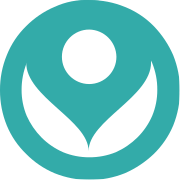
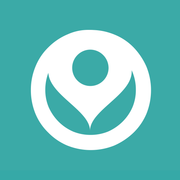
Fix double press-highlight, Directory back nav, and breathing UI glitches
- Cards combining a border with shadows.card now dim via opacity on
  press instead of overlaying a separate cardPressed fill, which read
  as two competing highlight colors (ListItemCard, Directory hub,
  More/account rows, events, Tanafas hub/breathing/voices, journal
  EntryCard).
- Professionals/Organizations/Wellness Centers back buttons now
  replace('/directory') explicitly instead of router.back(), so back
  navigation reliably returns to the Directory hub regardless of entry
  point (a plain double router.push didn't reliably create two history
  entries). Directory's _layout.tsx also gets unstable_settings for the
  same reason on native.
- Breathing session shell: bottom controls now respect the device
  safe-area inset instead of sitting flush against the system nav bar;
  the box-breathing progress dot now traces inside the dashed track
  instead of sitting on it.
- Recentered assets/images/icon.png's off-center mark and regenerated
  the smaller icon variants; added android.adaptiveIcon to app.json;
  fixed a stale/mismatched background color hardcoded in
  SplashIntro.tsx. Adaptive icon still needs further work (see
  CLAUDE.md).
- Investigated and ruled out as non-bugs: the community map (RPC and
  data are correct, the project just has one seeded profile), the
  language-switch restart (intended RTL-reload behavior), and Google
  sign-in's "provider not enabled" error (a Supabase dashboard setting).
[…]

diff --git a/app/(tabs)/events/index.tsx b/app/(tabs)/events/index.tsx
@@ -5,7 +5,7 @@ import { SafeAreaView } from 'react-native-safe-area-context';
 import { Calendar, Video, CheckCircle2, Clock, ChevronRight, ArrowUpDown, Mic } from 'lucide-react-native';
 import { useLanguage } from '@/contexts/LanguageContext';
 import { colors, spacing, radius, typography, shadows } from '@/constants/theme';
-import { fetchEvents, fetchSpeakers, type EventItem, type Speaker } from '@/lib/hounaApi';
+import { fetchEvents, fetchSpeakers, resolveImageUrl, type EventItem, type Speaker } from '@/lib/hounaApi';
 import { LoadingState, ErrorState, InlineError } from '@/components/directory/AsyncState';
 
 type EventFilter = 'all' | 'upcoming' | 'virtual' | 'past';
@@ -137,13 +137,13 @@ export default function EventsListScreen() {
                 style={({ pressed }) => [
                   styles.eventCard,
                   { backgroundColor: colors.card, borderColor: colors.border, ...shadows.card },
-                  pressed && { backgroundColor: colors.cardPressed },
+                  pressed && styles.pressed,
                 ]}
               >
-                {!!event.imageUrl && (
+                {!!resolveImageUrl(event.imageUrl) && (
                   <View style={styles.eventImageWrap}>
-                    <Image source={{ uri: event.imageUrl }} style={styles.eventImage} resizeMode="cover" />
-                    <View style={[styles.badgeRow, isRTL ? { start: spacing.sm } : { end: spacing.sm }]}>
+                    <Image source={{ uri: resolveImageUrl(event.imageUrl)! }} style={styles.eventImage} resizeMode="cover" />
+                    <View style={[styles.badgeRow, { end: spacing.sm }]}>
                       {event.isVirtual && (
                         <View style={[styles.badge, { backgroundColor: colors.primary }]}>
                           <Video size={10} color={colors.onPrimary} />
@@ -227,8 +227,8 @@ export default function EventsListScreen() {
                     ]}
                   >
                     <View style={[styles.speakerAvatar, { backgroundColor: colors.surface }]}>
-                      {!!speaker.imageUrl && (
-                        <Image source={{ uri: speaker.imageUrl }} style={styles.speakerAvatarImg} resizeMode="cover" />
+                      {!!resolveImageUrl(speaker.imageUrl) && (
+                        <Image source={{ uri: resolveImageUrl(speaker.imageUrl)! }} style={styles.speakerAvatarImg} resizeMode="cover" />
                       )}
                     </View>
                     <Text
@@ -315,6 +315,9 @@ const styles = StyleSheet.create({
     borderRadius: radius.lg,
     borderWidth: 1,
     overflow: 'hidden',
+  },
+  pressed: {
+    opacity: 0.85,
   },
   eventImageWrap: {
     height: 128,

diff --git a/components/directory/ListItemCard.tsx b/components/directory/ListItemCard.tsx
@@ -3,6 +3,7 @@ import { View, Text, Image, Pressable, StyleSheet } from 'react-native';
 import { useLanguage } from '@/contexts/LanguageContext';
 import { colors, spacing, radius, typography, shadows } from '@/constants/theme';
 import { arabicNumber } from '@/lib/arabicNumerals';
+import { resolveImageUrl } from '@/lib/hounaApi';
 
 /** Tags beyond this many collapse into a "+N more" label rather than wrapping indefinitely. */
 const MAX_VISIBLE_TAGS = 3;
@@ -18,7 +19,14 @@ interface ListItemCardProps {
   imageResizeMode?: 'cover' | 'contain';
 }
 
-export default function ListItemCard({
+/**
+ * Memoized — this renders inside long FlatLists (professionals can run to
+ * ~300 rows via infinite scroll), and without this every already-mounted
+ * row re-renders whenever the list's backing array changes (e.g. on each
+ * page appended), which is exactly what triggers RN's own "large list slow
+ * to update" warning.
+ */
+export default React.memo(function ListItemCard({
   imageUrl,
   title,
   subtitle,
@@ -31,6 +39,7 @@ export default function ListItemCard({
   const common = t.directory.common;
   const visibleTags = tags?.slice(0, MAX_VISIBLE_TAGS) ?? [];
   const hiddenTagCount = (tags?.length ?? 0) - visibleTags.length;
+  const resolvedImageUrl = resolveImageUrl(imageUrl);
 
   return (
     <Pressable
@@ -38,12 +47,12 @@ export default function ListItemCard({
       style={({ pressed }) => [
         styles.card,
         { backgroundColor: colors.card, borderColor: colors.border, ...shadows.card },
-        pressed && { backgroundColor: colors.cardPressed },
+        pressed && styles.pressed,
       ]}
     >
       <View style={[styles.image, { backgroundColor: colors.surface }]}>
-        {imageUrl && (
-          <Image source={{ uri: imageUrl }} style={styles.imageImg} resizeMode={imageResizeMode} />
+        {!!resolvedImageUrl && (
+          <Image source={{ uri: resolvedImageUrl }} style={styles.imageImg} resizeMode={imageResizeMode} />
         )}
       </View>
       <View style={styles.text}>
@@ -82,7 +91,7 @@ export default function ListItemCard({
       </View>
     </Pressable>
   );
-}
+});
 
 const styles = StyleSheet.create({
   card: {
@@ -92,6 +101,9 @@ const styles = StyleSheet.create({
     borderRadius: radius.lg,
     borderWidth: 1,
     padding: spacing.sm + 4,
+  },
+  pressed: {
+    opacity: 0.85,
   },
   image: {
     width: 64,

diff --git a/app/(tabs)/more.tsx b/app/(tabs)/more.tsx
@@ -129,7 +129,7 @@ export default function MoreScreen() {
                 style={({ pressed }) => [
                   styles.accountCard,
                   { backgroundColor: colors.card, borderColor: colors.border, ...shadows.card },
-                  pressed && { backgroundColor: colors.cardPressed },
+                  pressed && styles.pressed,
                 ]}
               >
                 <Text style={[styles.accountTitle, { color: colors.text, fontFamily: fonts.bold }]}>{ac.finishSetupTitle}</Text>
@@ -141,7 +141,7 @@ export default function MoreScreen() {
                 style={({ pressed }) => [
                   styles.aliasRow,
                   { backgroundColor: colors.card, borderColor: colors.border, ...shadows.card },
-                  pressed && { backgroundColor: colors.cardPressed },
+                  pressed && styles.pressed,
                 ]}
               >
                 <View style={[styles.aliasAvatar, { backgroundColor: colors.primaryLightest }]}>
@@ -294,6 +294,9 @@ const styles = StyleSheet.create({
     borderRadius: radius.lg,
     borderWidth: 1,
     padding: spacing.md,
+  },
+  pressed: {
+    opacity: 0.85,
   },
   accountTitle: {
     fontSize: typography.fontSize.body,

diff --git a/components/breathing/TracingSquareVisual.tsx b/components/breathing/TracingSquareVisual.tsx
@@ -14,6 +14,9 @@ interface Props extends PhaseVisualProps {
 }
 
 const SQUARE = 200;
+/** Keeps the tracing dot's path inside the dashed border instead of sitting directly on it. */
+const TRACK_INSET = 16;
+const TRACK_SIZE = SQUARE - TRACK_INSET * 2;
 
 /** Square with a dot tracing the perimeter (one edge per phase) — for box/4x4 breathing. */
 export default function TracingSquareVisual({
@@ -34,10 +37,10 @@ export default function TracingSquareVisual({
   if (!isComplete) {
     const p = progressInPhase;
     switch (phaseIndex % 4) {
-      case 0: dotX = p * SQUARE; dotY = 0; break;
-      case 1: dotX = SQUARE; dotY = p * SQUARE; break;
-      case 2: dotX = (1 - p) * SQUARE; dotY = SQUARE; break;
-      case 3: dotX = 0; dotY = (1 - p) * SQUARE; break;
+      case 0: dotX = TRACK_INSET + p * TRACK_SIZE; dotY = TRACK_INSET; break;
+      case 1: dotX = SQUARE - TRACK_INSET; dotY = TRACK_INSET + p * TRACK_SIZE; break;
+      case 2: dotX = TRACK_INSET + (1 - p) * TRACK_SIZE; dotY = SQUARE - TRACK_INSET; break;
+      case 3: dotX = TRACK_INSET; dotY = TRACK_INSET + (1 - p) * TRACK_SIZE; break;
     }
   }
 

diff --git a/components/breathing/PhaseBreathingSession.tsx b/components/breathing/PhaseBreathingSession.tsx
@@ -1,5 +1,6 @@
 import React, { useCallback, useEffect, useRef, useState } from 'react';
 import { View, Text, Pressable, StyleSheet } from 'react-native';
+import { useSafeAreaInsets } from 'react-native-safe-area-context';
 import { Play, Pause, RotateCcw } from 'lucide-react-native';
 import { useLanguage } from '@/contexts/LanguageContext';
 import { colors, spacing, radius, typography, shadows } from '@/constants/theme';
@@ -160,6 +161,7 @@ export default function PhaseBreathingSession({
   const isActive = isRunning && !isPaused;
 
   const num = (n: number) => (isRTL ? arabicNumber(n) : String(n));
+  const insets = useSafeAreaInsets();
 
   return (
     <View style={[styles.container, { backgroundColor: colors.background }]}>
@@ -262,7 +264,7 @@ export default function PhaseBreathingSession({
         )}
       </View>
 
-      <View style={styles.controls}>
+      <View style={[styles.controls, { paddingBottom: spacing.xxl + insets.bottom }]}>
         {!isRunning && !isComplete && (
           <Pressable
             onPress={handleStart}

diff --git a/app/(tabs)/directory/professionals/index.tsx b/app/(tabs)/directory/professionals/index.tsx
@@ -107,7 +107,7 @@ export default function ProfessionalsListScreen() {
     <SafeAreaView style={[styles.safe, { backgroundColor: colors.background }]} edges={['top', 'bottom']}>
       <View style={styles.headerRow}>
         <Pressable
-          onPress={() => router.back()}
+          onPress={() => router.replace('/directory')}
           hitSlop={12}
           style={({ pressed }) => [
             styles.backBtn,
@@ -131,6 +131,13 @@ export default function ProfessionalsListScreen() {
           contentContainerStyle={styles.listContent}
           onEndReachedThreshold={0.4}
           onEndReached={handleEndReached}
+          // This list grows via infinite scroll to ~300 rows (the real
+          // professional count) — tuned batching keeps that from
+          // triggering RN's "large list slow to update" warning.
+          initialNumToRender={8}
+          maxToRenderPerBatch={8}
+          windowSize={7}
+          removeClippedSubviews
           ListHeaderComponent={
             <View>
               <FilterToggle

diff --git a/components/SplashIntro.tsx b/components/SplashIntro.tsx
@@ -31,12 +31,13 @@ import Animated, {
   withTiming,
 } from 'react-native-reanimated';
 import Svg, { G, Path } from 'react-native-svg';
+import { palette } from '@/constants/theme';
 
 /* ------------------------------------------------------------------ */
 /* Brand                                                               */
 /* ------------------------------------------------------------------ */
 
-const GROUND = '#F2F7F5'; // Broken White
+const GROUND = palette.brokenWhite; // Broken White — must match constants/theme.ts, not a hardcoded approximation
 const LETTER = '#3BAAA7'; // Primary Turquoise — Latin letterforms
 const MARK = '#36A9A7'; // the o + figure (as exported in the source SVG)
 const INK = '#525052'; // Arabic wordmark

diff --git a/app/tanafas/breathing/index.tsx b/app/tanafas/breathing/index.tsx
@@ -109,7 +109,7 @@ export default function BreathingGroundingListScreen() {
                 style={({ pressed }) => [
                   styles.card,
                   { backgroundColor: colors.card, borderColor: colors.border, ...shadows.card },
-                  pressed && { backgroundColor: colors.cardPressed },
+                  pressed && styles.pressed,
                 ]}
               >
                 <FlatIconTile icon={Icon} color={item.tileColor} bg={item.tileBg} size={56} iconSize={22} />
@@ -175,6 +175,9 @@ const styles = StyleSheet.create({
     borderWidth: 1,
     padding: spacing.md,
     gap: spacing.md,
+  },
+  pressed: {
+    opacity: 0.85,
   },
   text: {
     flex: 1,

diff --git a/app/(tabs)/directory/index.tsx b/app/(tabs)/directory/index.tsx
@@ -97,7 +97,7 @@ export default function DirectoryHubScreen() {
                 style={({ pressed }) => [
                   styles.card,
                   { backgroundColor: colors.card, borderColor: colors.border, ...shadows.card },
-                  pressed && { backgroundColor: colors.cardPressed },
+                  pressed && styles.pressed,
                 ]}
               >
                 <FlatIconTile icon={Icon} color={card.color} bg={card.bg} size={56} iconSize={26} />
@@ -146,6 +146,9 @@ const styles = StyleSheet.create({
     borderWidth: 1,
     padding: spacing.md,
     gap: spacing.md,
+  },
+  pressed: {
+    opacity: 0.85,
   },
   cardText: {
     flex: 1,

diff --git a/app/tanafas/voices/index.tsx b/app/tanafas/voices/index.tsx
@@ -97,7 +97,7 @@ export default function VoicesScreen() {
                 style={({ pressed }) => [
                   styles.card,
                   { backgroundColor: colors.card, borderColor: colors.border, ...shadows.card },
-                  pressed && { backgroundColor: colors.cardPressed },
+                  pressed && styles.pressed,
                 ]}
               >
                 <View style={[styles.cardImage, { backgroundColor: colors.surface }]}>
@@ -204,6 +204,9 @@ const styles = StyleSheet.create({
     borderRadius: radius.lg,
     borderWidth: 1,
     padding: spacing.sm + 4,
+  },
+  pressed: {
+    opacity: 0.85,
   },
   cardImage: {
     width: 64,

diff --git a/app/tanafas/index.tsx b/app/tanafas/index.tsx
@@ -102,7 +102,7 @@ export default function TanafasHubScreen() {
                 style={({ pressed }) => [
                   styles.card,
                   { backgroundColor: colors.card, borderColor: colors.border, ...shadows.card },
-                  pressed && { backgroundColor: colors.cardPressed },
+                  pressed && styles.pressed,
                 ]}
               >
                 <FlatIconTile icon={Icon} color={card.color} bg={card.bg} size={52} />
@@ -185,6 +185,9 @@ const styles = StyleSheet.create({
     borderWidth: 1,
     padding: spacing.md,
     gap: spacing.md,
+  },
+  pressed: {
+    opacity: 0.85,
   },
   cardText: {
     flex: 1,

diff --git a/components/journal/EntryCard.tsx b/components/journal/EntryCard.tsx
@@ -22,7 +22,7 @@ export default function EntryCard({ entry, onPress }: EntryCardProps) {
       style={({ pressed }) => [
         styles.card,
         { backgroundColor: colors.card, borderColor: colors.border, ...shadows.card },
-        pressed && { backgroundColor: colors.cardPressed },
+        pressed && styles.pressed,
       ]}
     >
       <Text style={styles.emoji}>{MOOD_EMOJI[entry.mood]}</Text>
@@ -51,6 +51,9 @@ const styles = StyleSheet.create({
     borderRadius: radius.lg,
     borderWidth: 1,
     padding: spacing.sm + 4,
+  },
+  pressed: {
+    opacity: 0.85,
   },
   emoji: {
     fontSize: 22,
